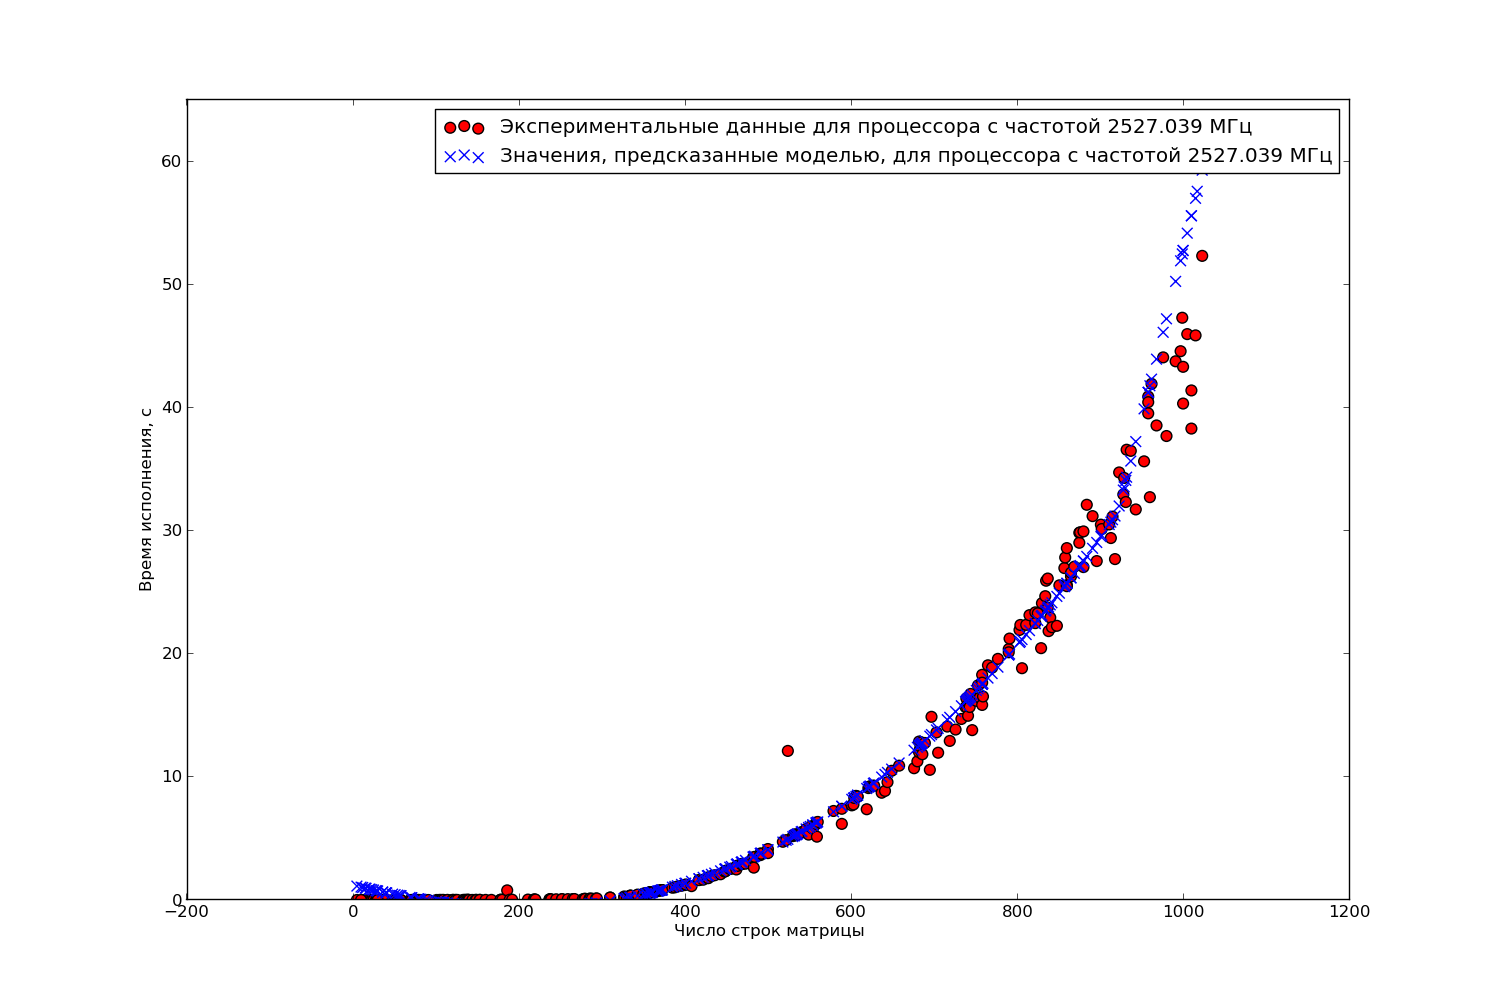
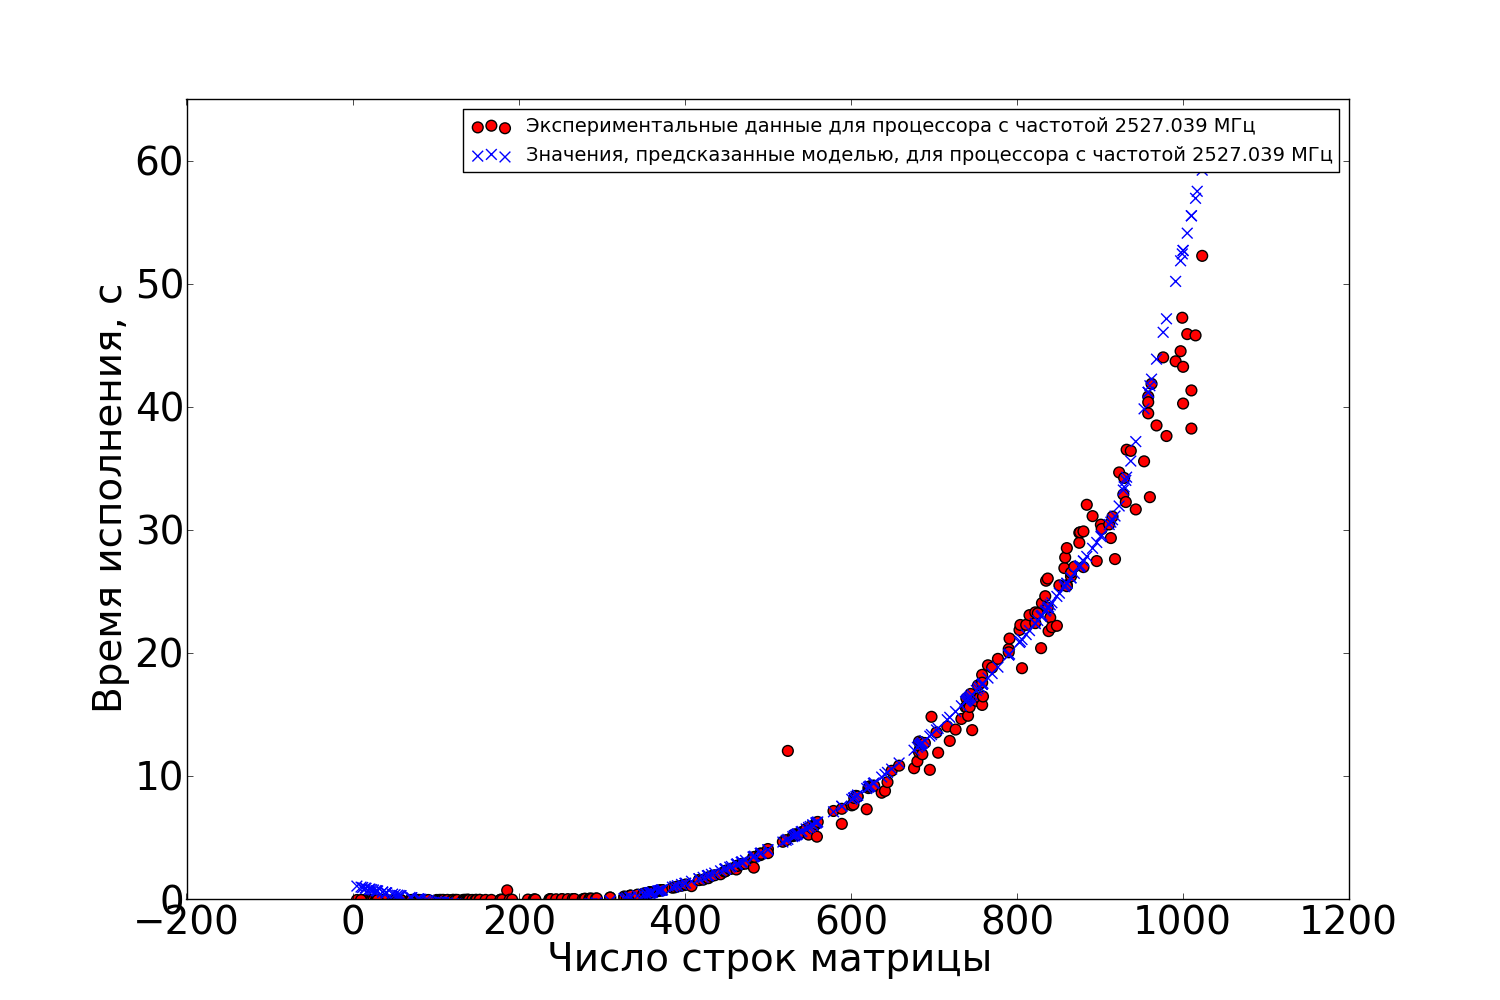
Increased font size.

diff --git a/practice12/impl/src/system.py b/practice12/impl/src/system.py
@@ -275,6 +275,9 @@ def plot_predictions_distinct_2d(filename, predictor):
     cmaps = [plt.cm.Reds, plt.cm.Blues, plt.cm.Greens]
     colors = [('red', 'blue'), ('red', 'blue'), ('red', 'blue')]
 
+    plt.rcParams.update({'font.size': 28})
+    plt.rc('legend',**{'fontsize':14})
+
     for freq, cmap, cs in zip(freqs, cmaps, colors):
         fig = plt.figure()
         fig.set_size_inches(15, 10)
